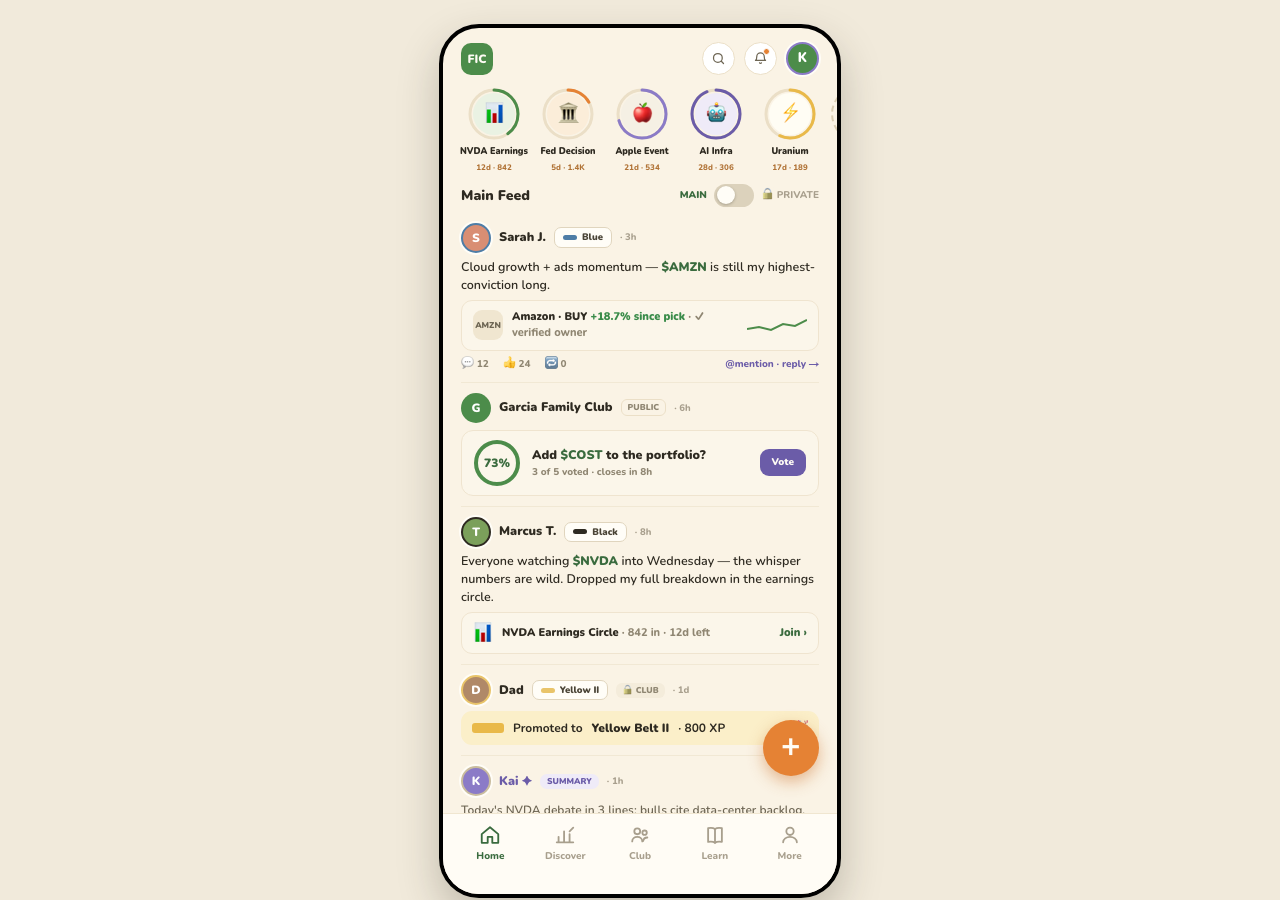
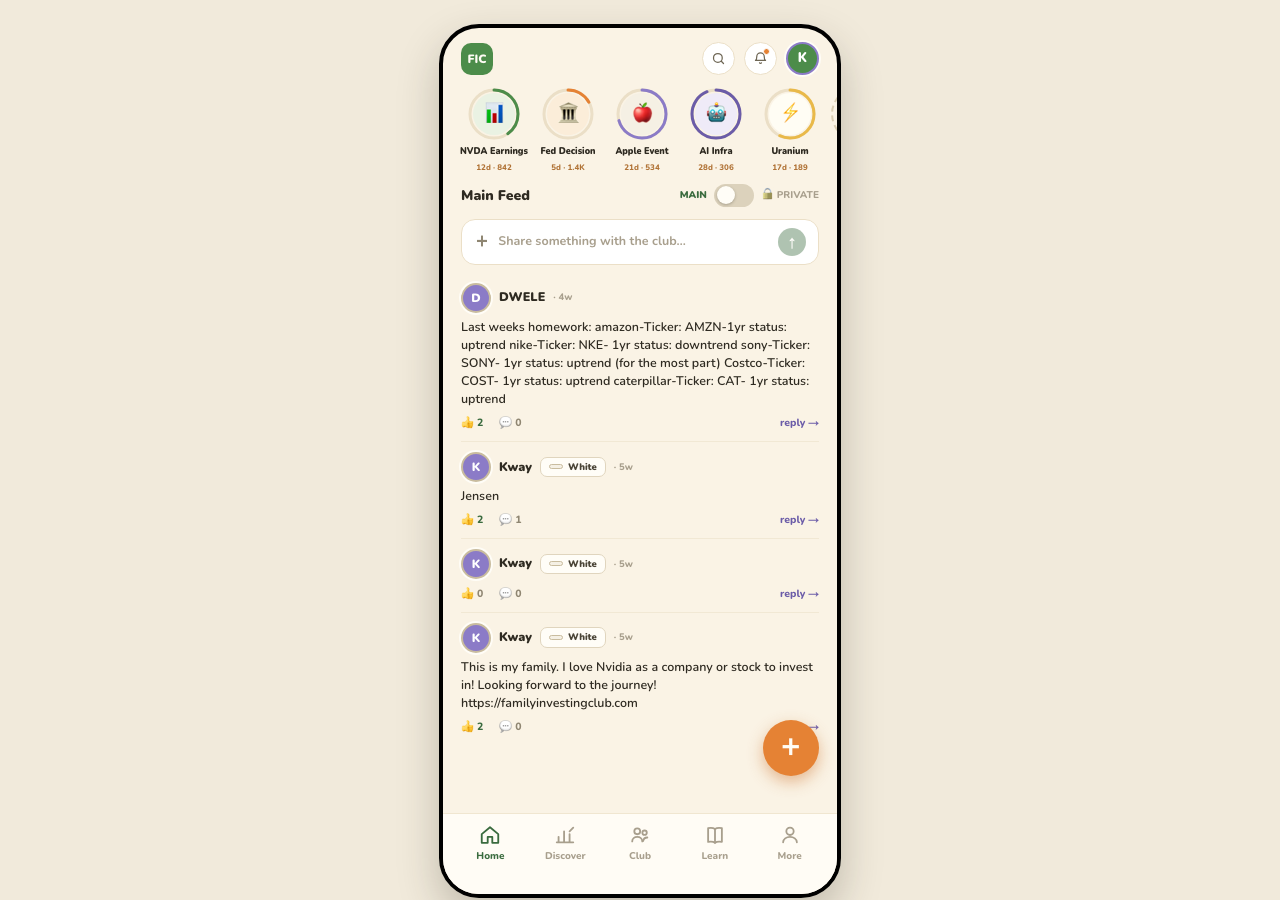
feat(club): the club chat is real
The Chat tab showed a scripted conversation (Dad, Andwele, Arielle, Sarah) to every club,
and its input only ever wrote to localStorage — so the club's main screen could not hold a
real conversation. getClubChat() already read the family thread; nothing passed it in.

- /club reads getClubChat() server-side and hands it to ChatPane; signed-out demo visitors
  keep the fixture script, signed-in members see their own thread.
- Sending posts a real family_circle_messages row through /api/club/chat, echoes optimistically,
  and surfaces a refusal (guardrails, kid wall) instead of pretending it sent.
- KaiSummaryRow was nested inside the composer's input row; it now sits above the composer.

Changed region(s): [[0.3438, 0.2178, 0.6562, 0.9022], [0.5938, 0.4978, 0.6562, 0.5289], [0.5938, 0.8711, 0.625, 0.9022]]

diff --git a/src/components/club/workspace/ChatPane.tsx b/src/components/club/workspace/ChatPane.tsx
@@ -2,6 +2,9 @@
 import { KaiSummaryRow } from "./OfficialPicks";
 import Link from "next/link";
 import { useState } from "react";
+import { useRouter } from "next/navigation";
+import { clubApi, signedOut } from "@/lib/live/client-club";
+import type { ClubChatMessage } from "@/lib/live/club";
 import { clubChat, type ClubChatMsg } from "@/lib/fixtures/v12-club";
 import { useStored } from "../storage";
 import { MemberDot, MiniSpark } from "./shared";
@@ -12,15 +15,26 @@ import { BeltChip } from "@/components/ui/belt";
 import { BELTS } from "@/lib/fixtures/belts";
 
 /** v11 — the private club is chat-default: my people, one conversation engine, rich artifacts. */
-export function ChatPane({ proposal }: { proposal: { id: string; title: string; hoursLeft: number; voted: number; eligible: number } | null }) {
+export function ChatPane({ proposal, live }: { proposal: { id: string; title: string; hoursLeft: number; voted: number; eligible: number } | null; live?: ClubChatMessage[] | null }) {
+  const router = useRouter();
   const [local, setLocal] = useStored<ClubChatMsg[]>("fic.club.chat", []);
   const [draft, setDraft] = useState("");
+  const [busy, setBusy] = useState(false);
+  const [error, setError] = useState<string | null>(null);
+  const [echo, setEcho] = useState<ClubChatMsg[]>([]);
   const [attach, setAttach] = useState(false);
-  const msgs = [...clubChat, ...local];
-  function send() {
-    const t = draft.trim(); if (!t) return;
-    setLocal([...local, { kind: "msg", id: `l${Date.now()}`, memberId: "kway", name: "Kway", text: t, mine: true }]);
-    setDraft("");
+  // Signed in → the family thread from the database; signed out (demo) → the fixture conversation.
+  const msgs: ClubChatMsg[] = live
+    ? [...live.map((m): ClubChatMsg => ({ kind: m.kind === "system" ? "system" : "msg", id: m.id, memberId: m.authorId ?? "club", name: m.author, text: m.text, mine: m.mine })), ...echo]
+    : [...clubChat, ...local];
+  async function send() {
+    const t = draft.trim(); if (!t || busy) return;
+    setBusy(true); setError(null);
+    const r = await clubApi.chat(t);
+    setBusy(false);
+    if (r.ok) { setDraft(""); setEcho((x) => [...x, { kind: "msg", id: `s${Date.now()}`, memberId: "me", name: "You", text: t, mine: true }]); router.refresh(); return; }
+    if (signedOut(r)) { setLocal([...local, { kind: "msg", id: `l${Date.now()}`, memberId: "kway", name: "Kway", text: t, mine: true }]); setDraft(""); return; }
+    setError(r.error);
   }
   return (
     <div className="flex flex-col min-h-[calc(100dvh-230px)] sm:min-h-[610px]">
@@ -108,13 +122,14 @@ export function ChatPane({ proposal }: { proposal: { id: string; title: string; 
           </div>
         </div>
       )}
-      <form onSubmit={(e) => { e.preventDefault(); send(); }} className="mt-auto pt-3 pb-3">
+      <div className="mt-auto"><KaiSummaryRow /></div>
+      <form onSubmit={(e) => { e.preventDefault(); void send(); }} className="pt-3 pb-3">
+        {error && <p role="alert" className="mb-[6px] text-[11px] font-bold text-coral px-1">{error}</p>}
         <div className="flex items-center gap-[9px] bg-card border-[1.5px] border-line rounded-[14px] px-[14px] py-[8px]">
-      <KaiSummaryRow />
-          <input value={draft} onChange={(e) => setDraft(e.target.value)} placeholder="Message the club…" className="flex-1 bg-transparent text-[12px] font-bold text-ink placeholder:text-ink-4 outline-none" />
+          <input value={draft} onChange={(e) => { setDraft(e.target.value); if (error) setError(null); }} placeholder="Message the club…" aria-label="Message the club" className="flex-1 bg-transparent text-[12px] font-bold text-ink placeholder:text-ink-4 outline-none" />
           <button type="button" onClick={() => setAttach(true)} aria-label="Attach" className="text-[15px] font-black text-ink-3">＋</button>
           <button type="button" onClick={() => openSheet("compose", { audience: "club" })} aria-label="Share something" className="text-[13px] text-ink-3">✎</button>
-          <button type="submit" aria-label="Send" className="w-7 h-7 rounded-full bg-green-2 text-cream-text flex items-center justify-center text-[12px]">➤</button>
+          <button type="submit" aria-label="Send" disabled={busy || !draft.trim()} className="w-7 h-7 rounded-full bg-green-2 text-cream-text flex items-center justify-center text-[12px] disabled:opacity-40">➤</button>
         </div>
       </form>
     </div>

diff --git a/src/components/club/workspace/ClubWorkspace.tsx b/src/components/club/workspace/ClubWorkspace.tsx
@@ -8,6 +8,7 @@ import { InviteSheet, useStoredClub } from "../club-shared";
 import { NewClubEmpty } from "../NewClubEmpty";
 import { useStored } from "../storage";
 import { ChatPane } from "./ChatPane";
+import type { ClubChatMessage } from "@/lib/live/club";
 import { PerformancePane } from "./PerformancePane";
 import { DecisionsPane } from "./DecisionsPane";
 import { MembersPane } from "./MembersPane";
@@ -15,10 +16,10 @@ import { MembersPane } from "./MembersPane";
 export type WorkspaceTab = "chat" | "performance" | "decisions" | "members";
 const TABS: { id: WorkspaceTab; label: string }[] = [{ id: "chat", label: "Chat" }, { id: "performance", label: "Performance" }, { id: "decisions", label: "Decisions" }, { id: "members", label: "Members" }];
 
-type Props = { club: Club; overview: ClubOverview; portfolio: PortfolioTab; members: MemberCard[]; exposure: VerifiedExposure; initialTab?: WorkspaceTab; forceNew?: boolean };
+type Props = { club: Club; overview: ClubOverview; portfolio: PortfolioTab; members: MemberCard[]; exposure: VerifiedExposure; initialTab?: WorkspaceTab; forceNew?: boolean; chat?: ClubChatMessage[] | null };
 
 /** v11/v12 — the private club is chat-default: Chat (my people) · Performance (how are we doing) · Decisions (what are we deciding) · Members (who). */
-export function ClubWorkspace({ club, overview, portfolio, members, initialTab = "chat", forceNew }: Props) {
+export function ClubWorkspace({ club, overview, portfolio, members, initialTab = "chat", forceNew, chat }: Props) {
   const router = useRouter();
   const [stored] = useStoredClub();
   const [isNew] = useStored<string>("fic.club.new", "");
@@ -43,7 +44,7 @@ export function ClubWorkspace({ club, overview, portfolio, members, initialTab =
           <button key={t.id} role="tab" aria-selected={tab === t.id} onClick={() => go(t.id)} className={cx("flex-1 rounded-[9px] py-[6px] text-[11.5px]", tab === t.id ? "bg-[#FFFDF7] text-ink font-black shadow-[0_1px_3px_rgba(46,42,33,0.1)]" : "text-ink-3 font-extrabold")}>{t.label}</button>
         ))}
       </div>
-      {tab === "chat" && <ChatPane proposal={overview.activeDecision ? { id: overview.activeDecision.proposalId, title: overview.activeDecision.title, hoursLeft: overview.activeDecision.hoursLeft, voted: overview.activeDecision.voted, eligible: overview.activeDecision.eligible } : null} />}
+      {tab === "chat" && <ChatPane live={chat} proposal={overview.activeDecision ? { id: overview.activeDecision.proposalId, title: overview.activeDecision.title, hoursLeft: overview.activeDecision.hoursLeft, voted: overview.activeDecision.voted, eligible: overview.activeDecision.eligible } : null} />}
       {tab === "performance" && <><OfficialPicks /><details className="mt-4 rounded-[14px] border border-line bg-card px-3 py-2"><summary className="cursor-pointer text-[12px] font-black text-ink-2">Model portfolio ▾</summary><div className="pt-2"><PerformancePane o={overview} p={portfolio} /></div></details></>}
       {tab === "decisions" && <DecisionsPane o={overview} />}
       {tab === "members" && <MembersPane members={members} households={overview.households} onInvite={() => setInvite(true)} />}

diff --git a/src/app/(app)/club/page.tsx b/src/app/(app)/club/page.tsx
@@ -1,11 +1,13 @@
 import { getClub, getClubOverview, getPortfolioTab, getMemberCards, getVerifiedExposure } from "@/lib/data-live";
 import { ClubWorkspace, type WorkspaceTab } from "@/components/club/workspace/ClubWorkspace";
+import { getClubChat } from "@/lib/live/club";
 
 /** Old deep links keep working: overview→chat, portfolio→performance. */
 const asTab = (v: string | string[] | undefined): WorkspaceTab =>
   v === "performance" || v === "portfolio" ? "performance" : v === "decisions" ? "decisions" : v === "members" ? "members" : "chat";
 
 export default async function ClubPage(props: PageProps<"/club">) {
-  const [sp, club, overview, portfolio, members, exposure] = await Promise.all([props.searchParams, getClub(), getClubOverview(), getPortfolioTab(), getMemberCards(), getVerifiedExposure()]);
-  return <ClubWorkspace club={club} overview={overview} portfolio={portfolio} members={members} exposure={exposure} initialTab={asTab(sp.tab)} forceNew={sp.state === "new"} />;
+  // Signed in → the family thread (family_circle_messages); signed out (demo) → null, and the pane keeps its fixtures.
+  const [sp, club, overview, portfolio, members, exposure, chat] = await Promise.all([props.searchParams, getClub(), getClubOverview(), getPortfolioTab(), getMemberCards(), getVerifiedExposure(), getClubChat()]);
+  return <ClubWorkspace club={club} overview={overview} portfolio={portfolio} members={members} exposure={exposure} initialTab={asTab(sp.tab)} forceNew={sp.state === "new"} chat={chat} />;
 }
